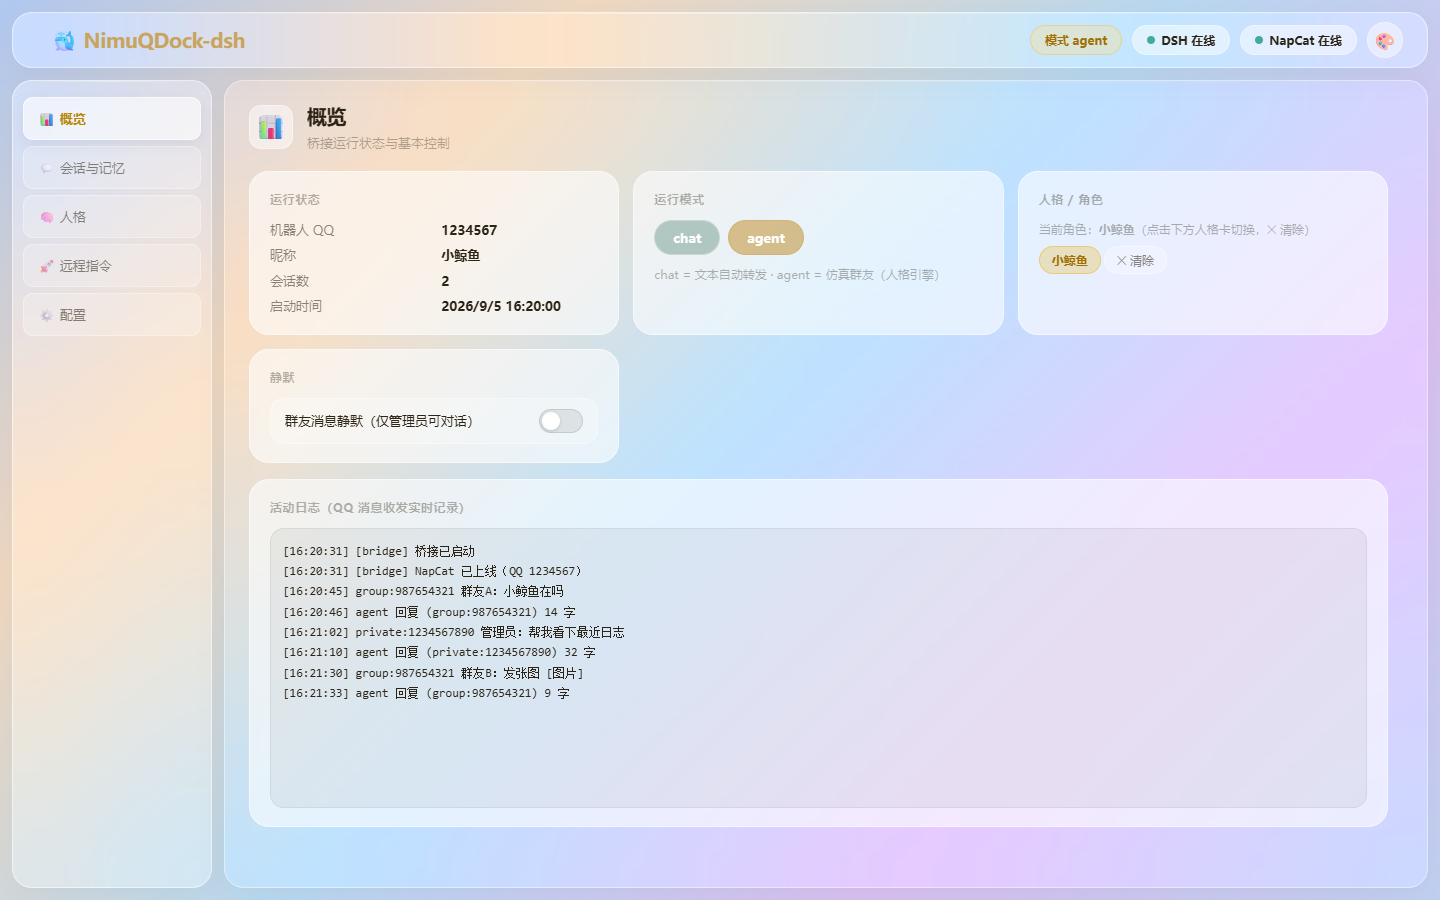
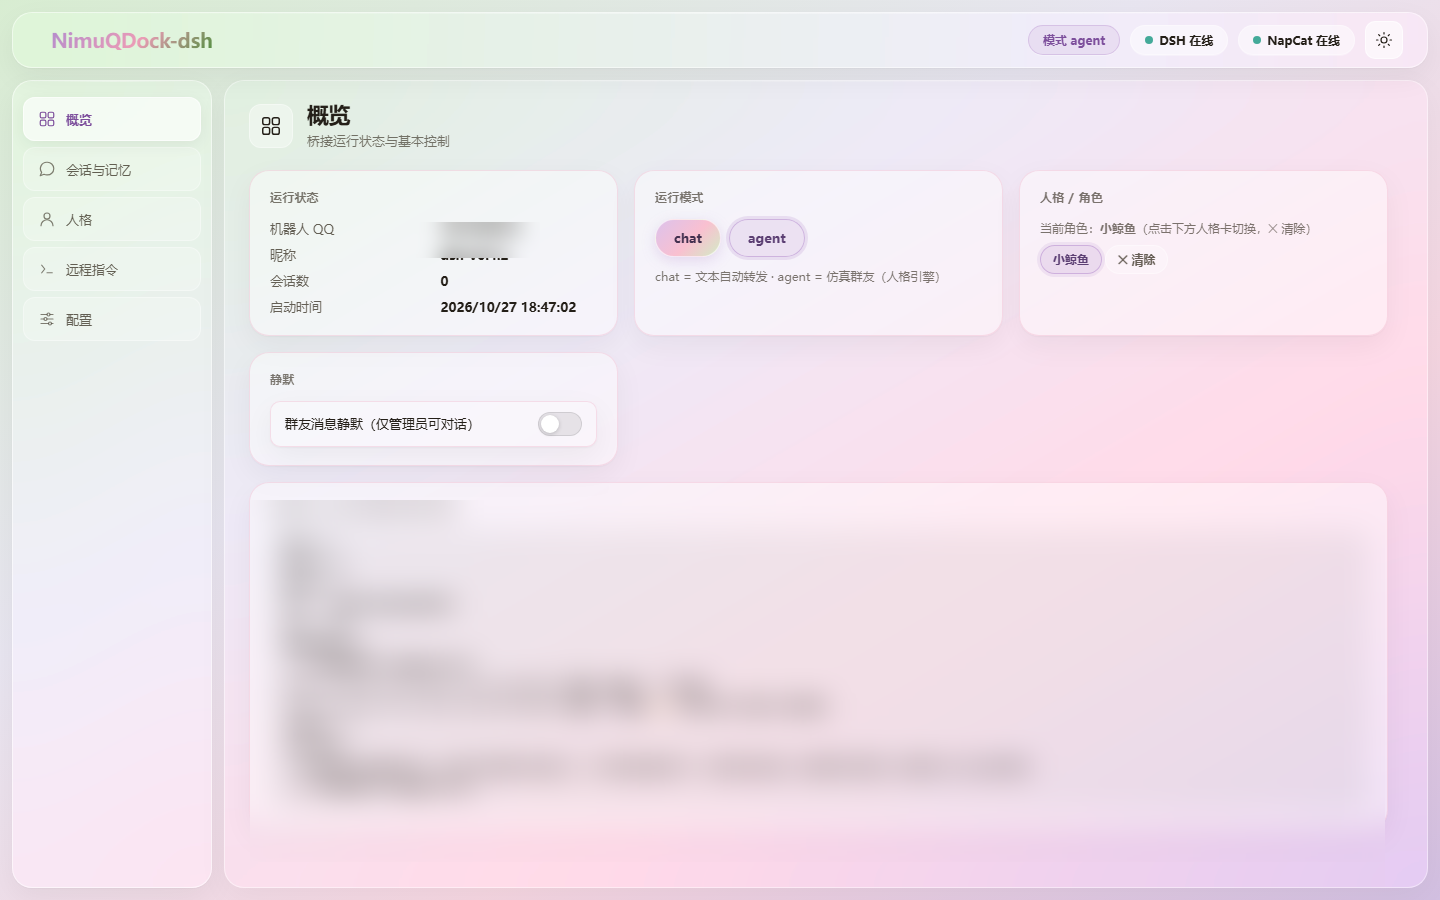
release: v0.6.3 —— 按审查报告修复发送链审计/白名单/引用消毒，更新 README 截图与隐私说明

diff --git a/public/console.html b/public/console.html
@@ -584,7 +584,7 @@ const urlToken = new URLSearchParams(location.search).get('token');
 if (urlToken) {
   TOKEN = urlToken;
   localStorage.setItem('napcat_token', TOKEN);
-  try { history.replaceState(null, '', location.pathname); } catch {}
+  try { history.replaceState(null, '', location.pathname + location.hash); } catch {}
 }
 
 // ── 输出安全：任何动态内容进 HTML/属性前必须过这两个函数（防 QQ 内容存储型 XSS） ──
@@ -618,11 +618,23 @@ async function api(path, method = 'GET', body = null) {
   return res.json();
 }
 
+// ── 深链：#overview / #persona/state 之类，方便分享与截图 ──
+function applyHash(){
+  const raw = (location.hash || '').replace(/^#/, '');
+  if (!raw) return false;
+  const [view, sub] = raw.split('/');
+  if (!['overview','sessions','persona','remote','config'].includes(view)) return false;
+  showView(view);
+  if (sub) showSub(view, sub);
+  return true;
+}
+
 // ── 视图切换 ──
 function showView(name) {
   document.querySelectorAll('.main-content > div').forEach((el) => el.classList.add('hidden-view'));
   document.getElementById('view-' + name).classList.remove('hidden-view');
   document.querySelectorAll('.game-btn').forEach((b) => b.classList.toggle('active', b.dataset.view === name));
+  try { if (location.hash !== '#' + name) history.replaceState(null, '', '#' + name); } catch {}
   if (name === 'overview') refreshLog();
   if (name === 'sessions') showSub('sessions', 'sessions');
   if (name === 'persona') showSub('persona', 'state');
@@ -1122,6 +1134,7 @@ function login() {
   document.getElementById('login').style.display = 'none';
   document.getElementById('app').style.display = 'flex';
   refreshAll();
+  applyHash();
 }
 
 // ── 数据刷新 ──
@@ -1223,7 +1236,7 @@ async function refreshLog() {
 async function refreshAll() { await Promise.allSettled([refreshStatus(), refreshRoles(), refreshSessions(), refreshPersona(), refreshLog()]); }
 
 // ── 初始化 ──
-if (TOKEN) { document.getElementById('login').style.display = 'none'; document.getElementById('app').style.display = 'flex'; refreshAll(); }
+if (TOKEN) { document.getElementById('login').style.display = 'none'; document.getElementById('app').style.display = 'flex'; refreshAll(); applyHash(); }
 else { showLogin(); }
 // 远程指令框：Enter 执行（Shift+Enter 换行）
 document.getElementById('remoteCmd')?.addEventListener('keydown', (e) => {

diff --git a/src/console/server.js b/src/console/server.js
@@ -19,6 +19,7 @@ import crypto from 'node:crypto';
 import childProcess from 'node:child_process';
 import { fileURLToPath } from 'node:url';
 import { readActivityTail } from '../log.js';
+import { splitForQQ } from '../lib/md-to-plain.js';
 import { writeRoleState, readRoleState } from '../state.js';
 import { sanitizeRoleName, sleep, normalizeIdList } from '../lib/utils.js';
 import { imageBufferFromGetImage as getImageBuffer, sniffImageMime } from '../lib/qq-image.js';
@@ -875,18 +876,28 @@ export function startConsoleServer({ port, token, deps }) {
             const atUserId = body.at_user_id ?? null;
             const sent = [];
             const blocked = [];
+            const agentTokens = router?.knownAgentTokens ?? new Set();
             for (const text of messages) {
               if (SENSITIVE_RE.test(text)) {
                 blocked.push(text.slice(0, 80));
                 continue;
               }
-              let sendRes;
-              if (target.kind === 'group') {
-                sendRes = await bot.sendGroupMessage(target.id, text, { replyToMessageId, atUserId });
-              } else {
-                sendRes = await bot.sendPrivateMessage(target.id, text, { replyToMessageId });
+              // 与 sender.audit 同口径：回复里出现 agent 会话令牌整条拦截（防模型复述令牌）
+              if ([...agentTokens].some((t) => t && text.includes(t))) {
+                blocked.push('agent-token');
+                continue;
               }
-              sent.push(sendRes?.message_id ?? null);
+              // 复用 sender 的超长分段，避免单条过长被协议层拒绝
+              const parts = splitForQQ(text, cfg.maxReplyChars ?? 1000);
+              for (const part of parts) {
+                let sendRes;
+                if (target.kind === 'group') {
+                  sendRes = await bot.sendGroupMessage(target.id, part, { replyToMessageId, atUserId });
+                } else {
+                  sendRes = await bot.sendPrivateMessage(target.id, part, { replyToMessageId });
+                }
+                sent.push(sendRes?.message_id ?? null);
+              }
             }
             // 状态结算由 pump 的 onAgentTurnEnd(replied:true) 统一执行（避免双重结算）
             return sendJson(res, { sent, blocked });

diff --git a/src/core/router.js b/src/core/router.js
@@ -20,7 +20,7 @@ import { classifyMood } from '../persona/lexicon.js';
 import { computeAttention, computeInterest, computeScore, detectShutdownRequest } from '../persona/engagement.js';
 import { recordDecision } from '../persona/judge-dataset.js';
 import { STATE_DIR } from '../state.js';
-import { buildWakePrompt } from '../persona/inject.js';
+import { buildWakePrompt, sanitizeLine } from '../persona/inject.js';
 import { loadPersona } from '../persona/definition.js';
 
 /**
@@ -126,7 +126,8 @@ export class Router {
         await this.handleOwnerCommand(key, plainContent, msg, roleState);
         return;
       }
-      await this.sender.notify(key, '管理命令仅管理员可用。');
+      // 非 owner 的 / 命令：静默忽略（避免被刷回复），仅记日志
+      this.log(`（忽略非管理员命令：${plainContent.slice(0, 40)}）`);
       return;
     }
 
@@ -249,8 +250,8 @@ export class Router {
     try {
       const m = await this.bot.getMessage(replyId);
       if (!m) return null;
-      const senderName = m.sender?.card || m.sender?.nickname || String(m.user_id ?? '');
-      const text = segmentsToPlain(m.message).slice(0, 200);
+      const senderName = sanitizeLine(m.sender?.card || m.sender?.nickname || String(m.user_id ?? ''), 40);
+      const text = sanitizeLine(segmentsToPlain(m.message), 200);
       return { senderName, text, targetIsSelf: String(m.user_id) === String(selfId) };
     } catch {
       return null;

diff --git a/src/core/sender.js b/src/core/sender.js
@@ -3,6 +3,7 @@
 // → 逐条发送（sendDelayMs 间隔，防频率限制）。
 import { mdToPlain, splitForQQ } from '../lib/md-to-plain.js';
 import { SENSITIVE_RE } from '../lib/sensitive.js';
+import { isAllowed } from '../policy/allowlist.js';
 import { sleep } from '../lib/utils.js';
 
 export class Sender {
@@ -76,6 +77,11 @@ export class Sender {
       return { sent: 0, blocked: true, reason };
     }
     const { kind, id } = this._parseKey(key);
+    // 发送前二次校验：消息入口后可能已被移出白名单（fail-closed）
+    if (!isAllowed(kind, id, this.cfg)) {
+      this.log(`⚠ 回复目标不在白名单（${key}），已丢弃`);
+      return { sent: 0, blocked: true, reason: '不在白名单' };
+    }
     const sent = await this._sendTextOne(kind, id, plain, replyToMessageId);
     return { sent, blocked: false };
   }
@@ -88,6 +94,10 @@ export class Sender {
    */
   async sendBurstToQQ(key, messages, { minMs = 800, maxMs = 2000 } = {}) {
     const { kind, id } = this._parseKey(key);
+    if (!isAllowed(kind, id, this.cfg)) {
+      this.log(`⚠ 分条消息目标不在白名单（${key}），已丢弃`);
+      return { sent: 0, blocked: messages.length };
+    }
     let sent = 0;
     let blocked = 0;
     for (let i = 0; i < messages.length; i++) {

diff --git a/src/persona/inject.js b/src/persona/inject.js
@@ -9,7 +9,7 @@
 import { format } from 'node:util';
 
 /** 群友可控文本消毒：压平换行/控制符、剔除块标记【】，防记忆/未读内容伪造 prompt 块结构。 */
-function sanitizeLine(text, maxLen = 80) {
+export function sanitizeLine(text, maxLen = 80) {
   return String(text ?? '')
     .replace(/[\r\n\t]+/g, ' ')
     .replace(/[\u0000-\u001f\u007f]/g, '')

diff --git a/CHANGELOG.md b/CHANGELOG.md
@@ -3,6 +3,15 @@
 本文件按版本记录 NimuQDock-dsh 的功能与修复，**面向用户**：只写用户能感知的变化；
 内部修复/重构细节写在 commit 里，不写进来（Release 说明会自动引用本文）。
 
+## v0.6.3
+
+- 修复：agent 自主发送通道补上令牌泄露检查与超长消息分段（与普通发送链口径一致）
+- 修复：chat 自动转发前也会再校验一次白名单（运行中把会话移出白名单后不再发出）
+- 修复：chat 模式引用的消息文本会做消毒，避免伪造提示块结构
+- 修复：非管理员的 / 命令改为静默忽略，不再固定回复（避免被刷屏）
+- 改进：控制台支持 `#视图` 深链（如 `#persona/cards`），方便书签与分享
+- 文档：README 截图更新为新版控制台 UI（部分信息已打码），并补充数据与隐私说明
+
 ## v0.6.2
 
 - 改进：控制台图标全部改为线性 SVG（侧栏 / 子页签 / 顶栏），统一简约风格
